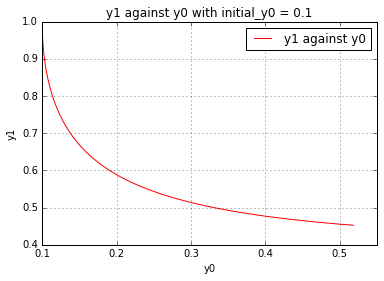
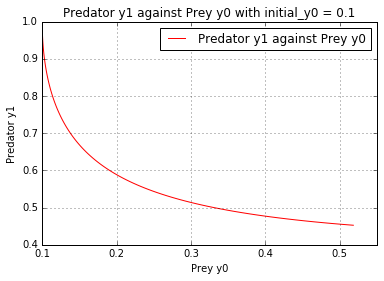
Modified

Changed region(s): [[0.1562, 0.0285, 0.9375, 0.1993], [0.0, 0.3701, 0.0625, 0.5979], [0.5, 0.9395, 0.5938, 0.968]]

diff --git a/task2.py b/task2.py
@@ -22,21 +22,21 @@ if __name__ == "__main__":
     sol = spIn.odeint(ode_system,initial_y,t,args=(a,b))
 
     # plotting the graph for both y0 and y1 against t
-    plt.plot(t, sol[:, 0], 'r', label='y0 against t')
-    plt.plot(t, sol[:, 1], 'b', label='y1 against t')
+    plt.plot(t, sol[:, 0], 'r', label='Prey y0 against t')
+    plt.plot(t, sol[:, 1], 'b', label='Predator y1 against t')
     plt.title('y against t with initial_y0 = 0.1')
     plt.legend(loc='best')
-    plt.xlabel('t')
+    plt.xlabel('Year t')
     plt.ylabel('y')
     plt.grid()
     plt.show()
     
     # plotting the graph for y1 against y0
-    plt.plot(sol[:, 0],sol[:,1], 'r', label='y1 against y0')
-    plt.title('y1 against y0 with initial_y0 = 0.1')
+    plt.plot(sol[:, 0],sol[:,1], 'r', label='Predator y1 against Prey y0')
+    plt.title('Predator y1 against Prey y0 with initial_y0 = 0.1')
     plt.legend(loc='best')
-    plt.xlabel('y0')
-    plt.ylabel('y1')
+    plt.xlabel('Prey y0')
+    plt.ylabel('Predator y1')
     plt.grid()
     plt.show()
     
@@ -55,20 +55,20 @@ if __name__ == "__main__":
     sol = spIn.odeint(ode_system,initial_y,t,args=(a,b))
 
     # plotting the graph for both y0 and y1 against t
-    plt.plot(t, sol[:, 0], 'r', label='y0 against t')
-    plt.plot(t, sol[:, 1], 'b', label='y1 against t')
+    plt.plot(t, sol[:, 0], 'r', label='Prey y0 against t')
+    plt.plot(t, sol[:, 1], 'b', label='Predator y1 against t')
     plt.title('y against t with initial_y0 = 0.11')
     plt.legend(loc='best')
-    plt.xlabel('t')
+    plt.xlabel('Year t')
     plt.ylabel('y')
     plt.grid()
     plt.show()
     
     # plotting the graph for y1 against y0
-    plt.plot(sol[:, 0],sol[:,1], 'r', label='y1 against y0')
-    plt.title('y1 against y0 with initial_y0 = 0.11')
+    plt.plot(sol[:, 0],sol[:,1], 'r', label='Predator y1 against Prey y0')
+    plt.title('Predator y1 against Prey y0 with initial_y0 = 0.11')
     plt.legend(loc='best')
-    plt.xlabel('y0')
-    plt.ylabel('y1')
+    plt.xlabel('Prey y0')
+    plt.ylabel('Predator y1')
     plt.grid()
     plt.show()
